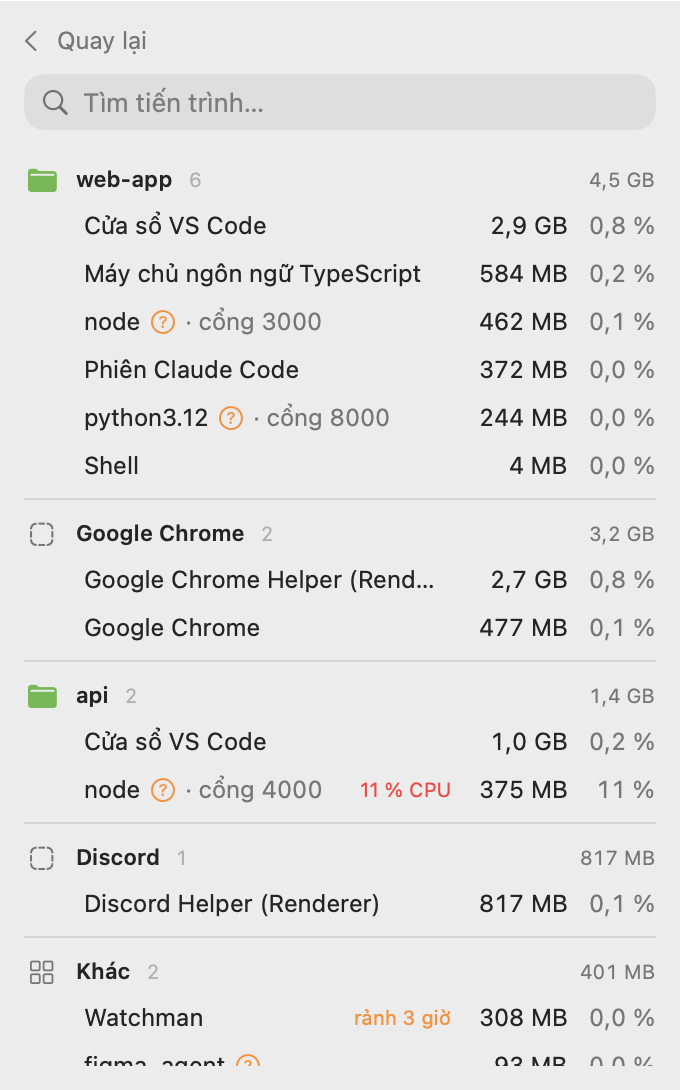
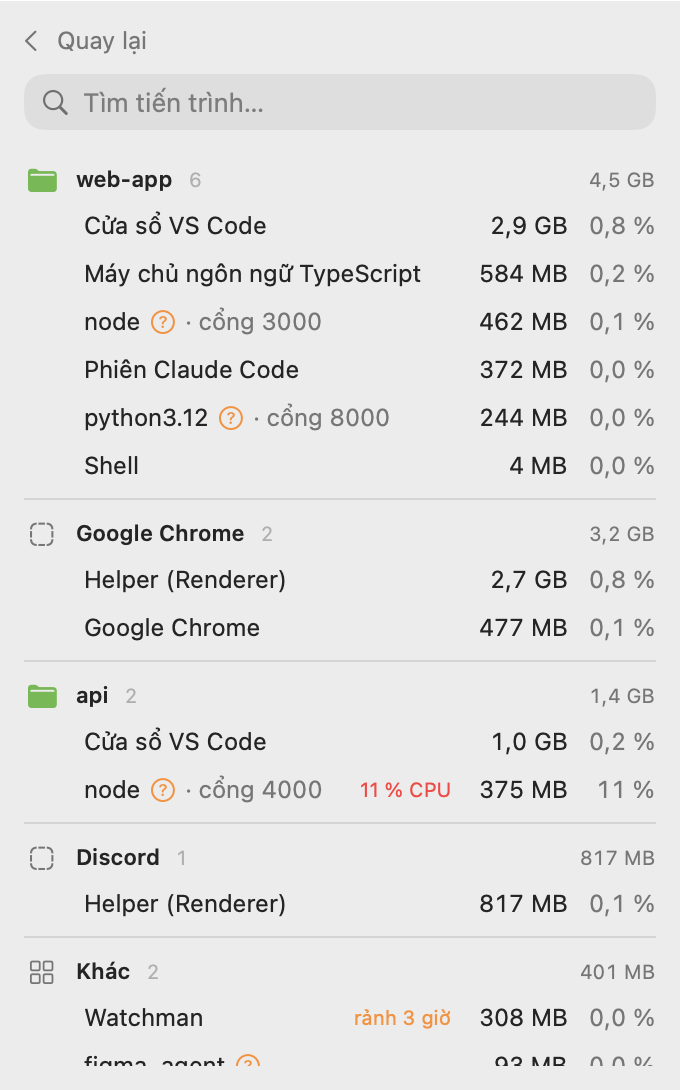
fix(ui): second review and QA round
- CPU turns red at half the machine (Overview.heavyCPU), not at 100 % of a core
- group names cut at the end like line names
- lines of an app group drop the app's name ('Helper (Renderer)'), so two
  helpers no longer look the same when cut
- '1 process' in English; 'hog --all' in the help

Changed region(s): [[0.1235, 0.811, 0.5559, 0.8422], [0.1235, 0.4991, 0.4941, 0.5615], [0.525, 0.5303, 0.6176, 0.5615]]

diff --git a/Sources/HogCore/Running.swift b/Sources/HogCore/Running.swift
@@ -85,6 +85,8 @@ public struct Overview: Sendable, Equatable {
     /// Apps below both go to "Other".
     static let smallAppBytes: Int64 = 100_000_000
     static let smallAppCPU: Double = 5
+    /// A group or line using at least this share of the whole machine's CPU is shown in red.
+    public static let heavyCPU: Double = 50
 
     public static func make(_ s: Snapshot, catalog: Catalog) -> Overview {
         let lang = s.lang
@@ -197,9 +199,18 @@ public struct Overview: Sendable, Equatable {
         var list = groups.values.map { g -> Group in
             var g = g
             g.entries = (entriesByGroup[g.id] ?? [:]).values.sorted { ($0.bytes ?? 0, $0.id) > ($1.bytes ?? 0, $1.id) }
+            // Under "Google Chrome", "Helper (Renderer)" says it all; cut at the end of a narrow row, the full name kept only
+            // "Google Chrome Helper (…" and two different helpers looked the same (QA 2026-10-27).
+            if g.kind == .app {
+                g.entries = g.entries.map { e in
+                    var e = e
+                    if e.name.hasPrefix(g.name + " ") { e.name = String(e.name.dropFirst(g.name.count + 1)).capitalizedFirst }
+                    return e
+                }
+            }
             let names = g.entries.map(\.name).reduce(into: [String]()) { if !$0.contains($1) { $0.append($1) } }
             g.summary = g.kind == .project ? names.prefix(3).joined(separator: ", ")
-                : (lang == .vi ? "\(g.processCount) tiến trình" : "\(g.processCount) processes")
+                : (lang == .vi ? "\(g.processCount) tiến trình" : g.processCount == 1 ? "1 process" : "\(g.processCount) processes")
             return g
         }
         // "Other" last among the readable groups, whatever its size; system at the very end.

diff --git a/Sources/hog/Commands.swift b/Sources/hog/Commands.swift
@@ -268,6 +268,7 @@ struct CLI {
 
         DÙNG
           hog                         câu kết luận, thứ ăn nhiều nhất, đề xuất
+          hog --all                   như trên, kèm mọi nhóm và mọi tiến trình đọc được
           hog --json                  ảnh chụp đầy đủ cho Claude/hub (--fast: nhanh, không có CPU tức thời)
           hog explain <đích>          vì sao: số đo, quy tắc, danh mục, cổng an toàn
           hog explain <thuật ngữ>     giải nghĩa một con số (hog explain terms để xem danh sách)
@@ -289,6 +290,7 @@ struct CLI {
 
         USAGE
           hog                         headline, biggest consumers, suggestions
+          hog --all                   the same, with every group and every readable process
           hog --json                  full snapshot for Claude/hub (--fast: quicker, no current CPU)
           hog explain <target>        why: measurements, rules, catalog, safety gates
           hog explain <term>          what a number means (hog explain terms for the list)

diff --git a/Tests/HogCoreTests/OverviewTests.swift b/Tests/HogCoreTests/OverviewTests.swift
@@ -53,9 +53,12 @@ import Testing
         let chrome = try #require(o.groups.first { $0.id == "app:chrome" })
         #expect(chrome.entries.count == 1 && chrome.entries[0].pids.count == 2 && chrome.entries[0].bytes == 500_000_000)
         #expect(chrome.summary == "2 processes")
+        #expect(chrome.entries[0].name == "Helper", "the app's name is not repeated on its own lines")
         #expect(!o.groups.contains { $0.id == "app:dock" }, "a small app goes to Other")
         let other = try #require(o.groups.first { $0.kind == .other })
         #expect(other.processCount == 2 && other.entries.contains { $0.name == "Dock" && !$0.unknown })
+        #expect(other.summary == "2 processes" && Overview.make(snapshot([proc(1, "Finder", mb: 900, owner: "app:dock")], owners: owners),
+                                                                 catalog: catalog).groups[0].summary == "1 process")
         #expect(o.groups.firstIndex { $0.kind == .other }! > o.groups.firstIndex { $0.id == "app:chrome" }!, "Other after the named groups")
     }
 

diff --git a/Sources/HogBar/Components.swift b/Sources/HogBar/Components.swift
@@ -171,7 +171,7 @@ struct GroupRow: View {
                 GroupIcon(g: g)
                 VStack(alignment: .leading, spacing: 0) {
                     HStack(spacing: 5) {
-                        Text(g.name).lineLimit(1).truncationMode(.middle)
+                        Text(g.name).lineLimit(1).truncationMode(.tail)
                         if g.kind == .project {
                             Text(model.t("dự án", "project")).font(.caption2.weight(.semibold)).foregroundStyle(.tint)
                                 .padding(.horizontal, 4).overlay(Capsule().stroke(.tint, lineWidth: 0.8))
@@ -192,7 +192,7 @@ struct GroupRow: View {
         .accessibilityHint(model.t("Mở để xem từng thứ", "Opens to show each thing"))
     }
 
-    var cpuColor: Color { (g.cpu ?? 0) >= 100 ? .red : .secondary }
+    var cpuColor: Color { (g.cpu ?? 0) >= Overview.heavyCPU ? .red : .secondary }
 }
 
 /// The app's own icon, else a symbol for projects, "Other" and macOS.

diff --git a/docs/design/design-system.md b/docs/design/design-system.md
@@ -63,6 +63,7 @@ các tiến trình"* · *"có thể làm UI giống với macos luôn được k
 - "Dọn N thứ": một hộp xác nhận cho cả nhóm; mỗi thứ vẫn qua đủ cổng an toàn; thứ bị chặn được liệt kê nhưng không chạy; buộc tắt
   (SIGKILL) không bao giờ nằm trong nhóm — phải mở riêng.
 - "Đang chạy" ở màn chính: tối đa 5 nhóm (dự án và app, không gồm "Khác"/hệ thống), rồi "Tất cả N tiến trình".
-- CPU ở mọi dòng là **% của cả máy** (cộng lại ra "CPU đang bận"), không phải % một nhân như Activity Monitor.
+- Dòng trong nhóm app bỏ tên app ở đầu ("Helper (Renderer)" dưới "Google Chrome"); tên dài cắt ở cuối dòng.
+- CPU ở mọi dòng là **% của cả máy** (đỏ từ 50 %) (cộng lại ra "CPU đang bận"), không phải % một nhân như Activity Monitor.
 - "Chưa đo được" (Docker tắt, VS Code không trả lời…) nằm trong Cài đặt, không ở màn chính của app; CLI in một dòng ở cuối.
 - Chuỗi hiển thị lấy từ HogCore (`Overview`, đã theo `vi`/`en`); nhãn của app có đủ hai ngôn ngữ.
